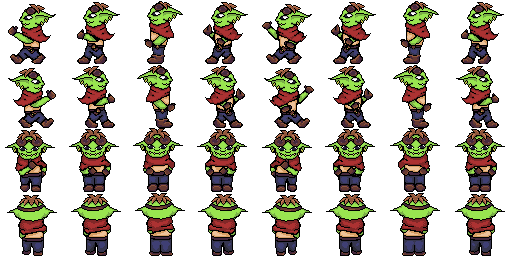
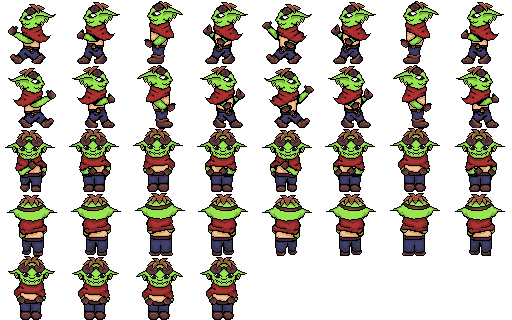
idle animation added

diff --git a/main.cpp b/main.cpp
@@ -57,27 +57,26 @@ int main() {
         if (movingBackward)  
             player.move(0.f, -3.f);
 
+        bool isMoving = movingLeft || movingRight || movingBackward || movingForward;
+
         animationTimer += 0.1f;
-        if (animationTimer >= 1.f) {
-            animationTimer = 0.f;
-            currentFrame = (currentFrame + 1) % 8; 
-        }
-        bool isMoving = movingLeft || movingRight || movingForward || movingBackward;
 
         if (isMoving) {
-            animationTimer += 0.1f;
             if (animationTimer >= 1.f) {
                 animationTimer = 0.f;
                 currentFrame = (currentFrame + 1) % 8; 
             }
         }
         else {
-            currentFrame = 0; // idle frame
+            if (animationTimer >= 1.f) {
+                animationTimer = 0.f;
+                currentFrame = (currentFrame + 1) % 4; 
+            }
         }
 
         // Row 0 = walking right
         // Row 1 = walking left
-        int row = 0;
+        int row = 4;
         if (movingLeft) row = 0;
         if (movingRight) row = 1;
         if (movingForward) row = 2;
